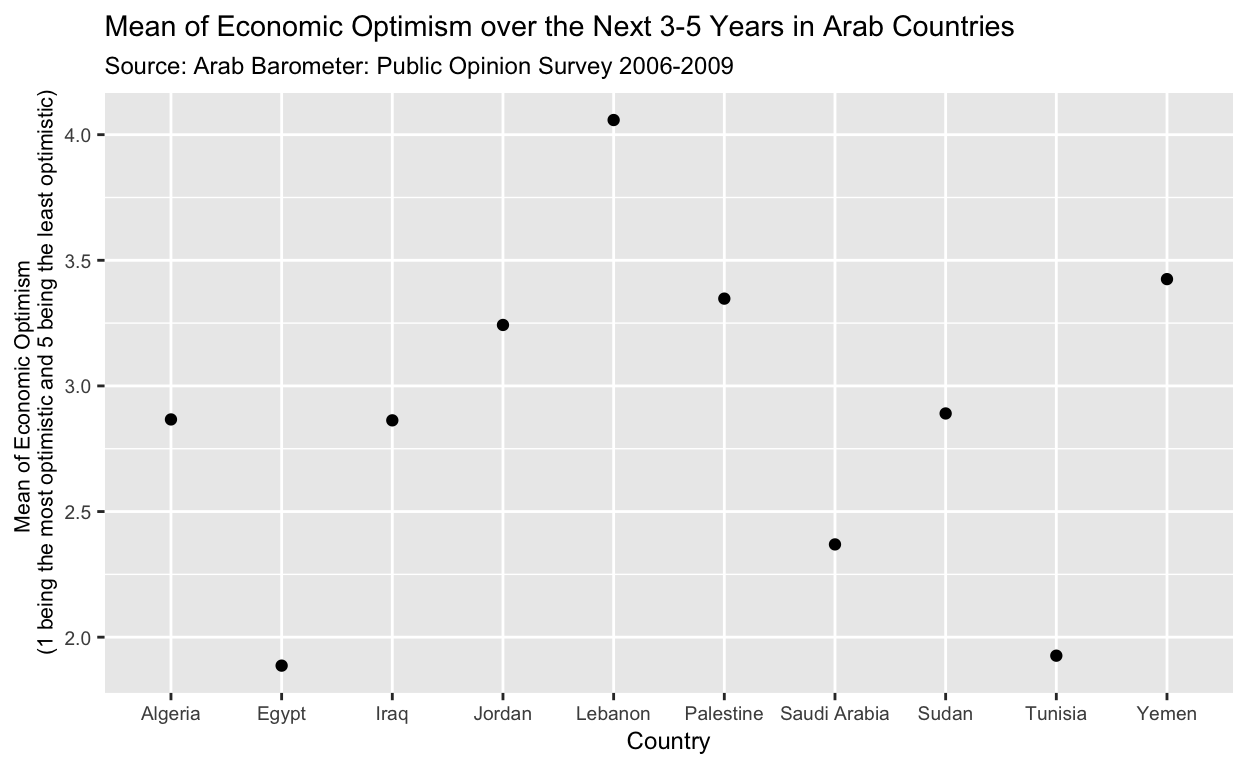
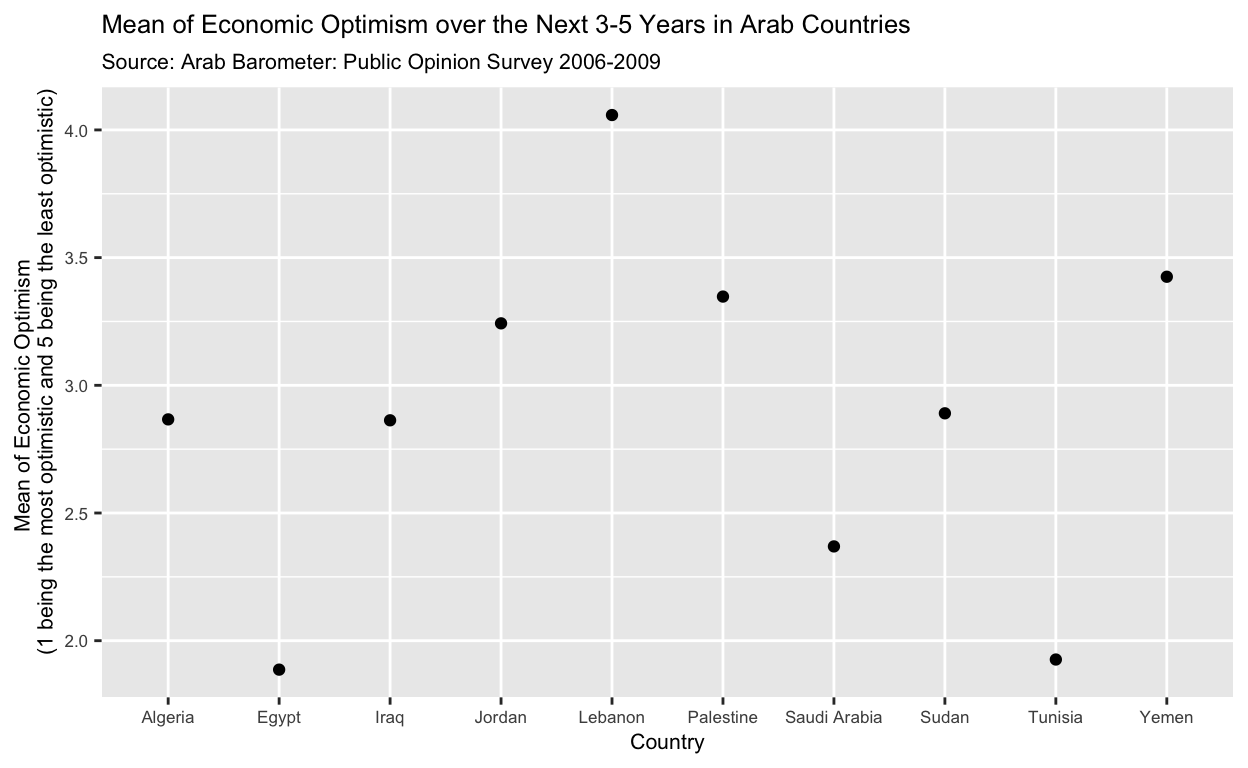
font

diff --git a/index.html b/index.html
@@ -1572,7 +1572,7 @@ However, one issue I will face is that not all the Arab states were included in 
 <span><span class='st'>       (1 being the most optimistic and 5 being the least optimistic)"</span>,</span>
 <span>       title <span class='op'>=</span> <span class='st'>"Mean of Economic Optimism over the Next 3-5 Years in Arab Countries"</span>,</span>
 <span>       subtitle <span class='op'>=</span> <span class='st'>"Source: Arab Barometer: Public Opinion Survey 2006-2009"</span><span class='op'>)</span><span class='op'>+</span></span>
-<span>  <span class='fu'><a href='https://ggplot2.tidyverse.org/reference/theme.html'>theme</a></span><span class='op'>(</span>text <span class='op'>=</span> <span class='fu'><a href='https://ggplot2.tidyverse.org/reference/element.html'>element_text</a></span><span class='op'>(</span>size <span class='op'>=</span> <span class='fl'>9</span><span class='op'>)</span>,</span>
+<span>  <span class='fu'><a href='https://ggplot2.tidyverse.org/reference/theme.html'>theme</a></span><span class='op'>(</span>text <span class='op'>=</span> <span class='fu'><a href='https://ggplot2.tidyverse.org/reference/element.html'>element_text</a></span><span class='op'>(</span>size <span class='op'>=</span> <span class='fl'>8</span><span class='op'>)</span>,</span>
 <span>         axis.title.y <span class='op'>=</span> <span class='fu'><a href='https://ggplot2.tidyverse.org/reference/element.html'>element_text</a></span><span class='op'>(</span>size <span class='op'>=</span> <span class='fl'>8</span><span class='op'>)</span><span class='op'>)</span></span></code></pre>
 </div>
 <p><img src="index_files/figure-html5/unnamed-chunk-3-1.png" width="624" /></p>
